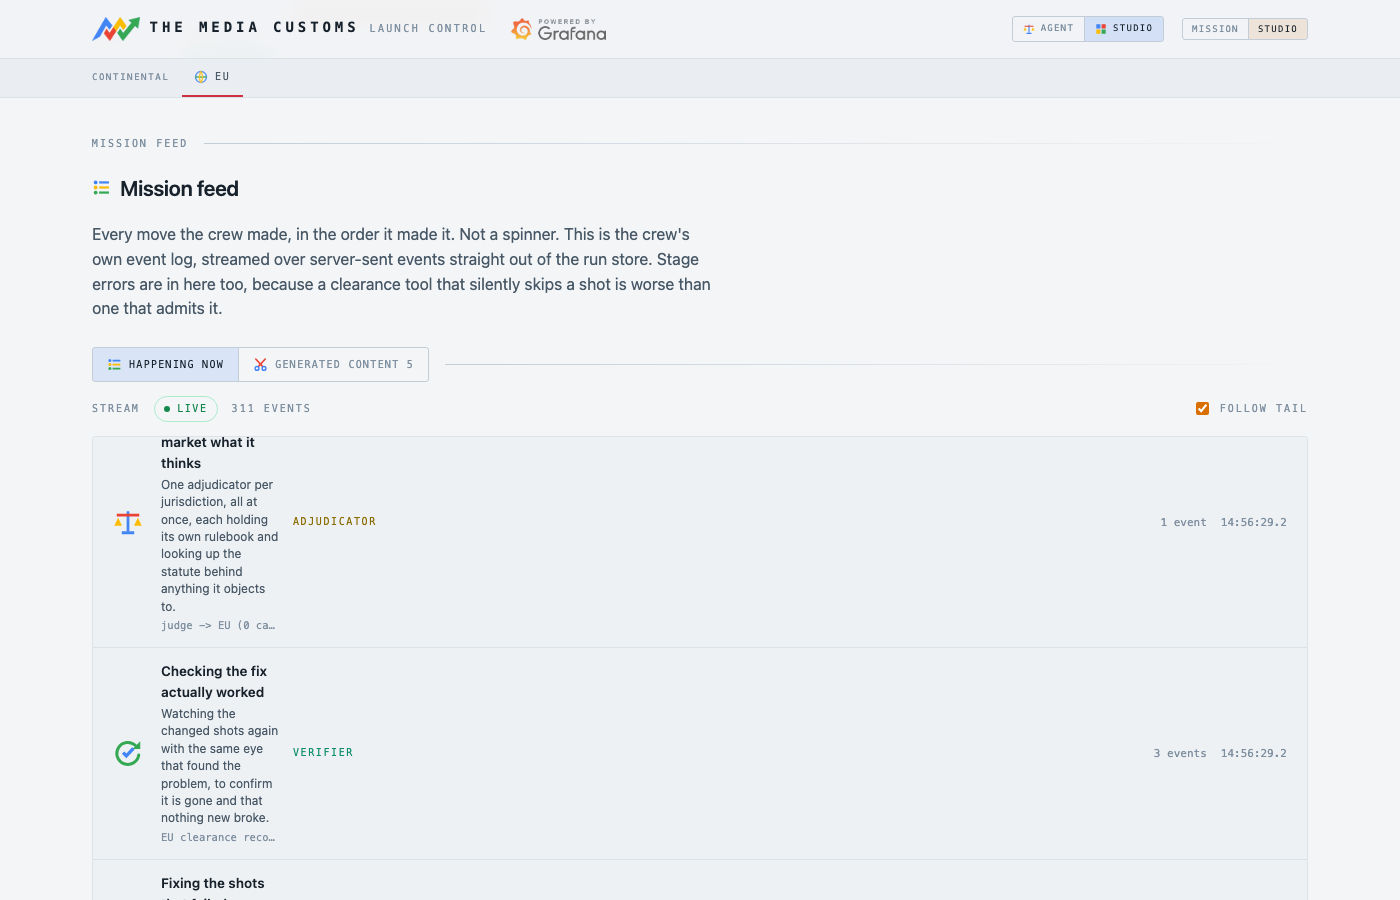
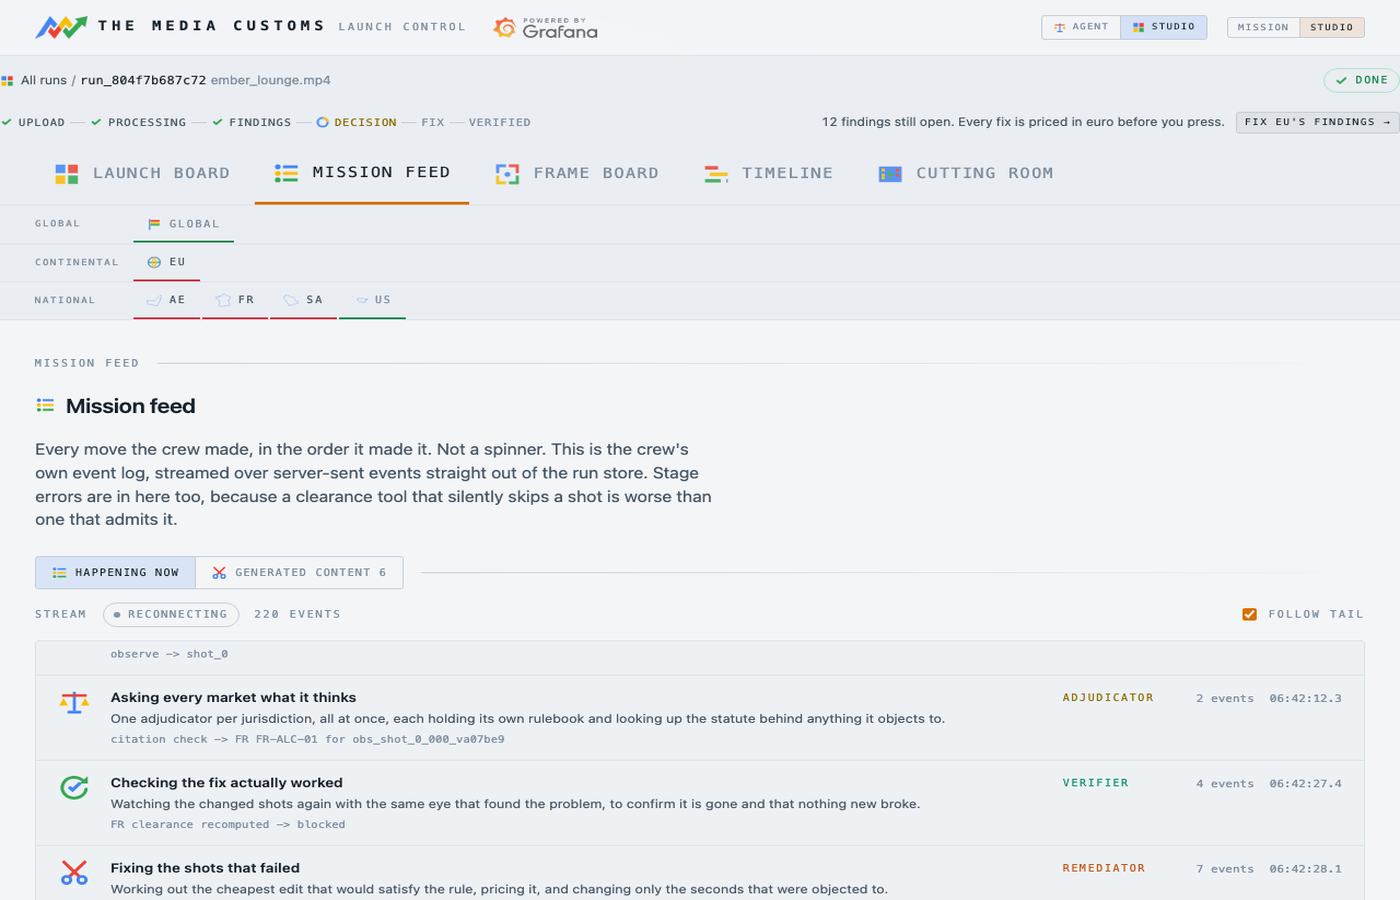
docs: the social card and the mission feed are the current console
Both were the dark theme. The card a pasted link shows was an August
launch board at 1200x833, which every renderer cropped somewhere
unhelpful; it is the light console at Open Graph's own 1200x630 now, on
one of our own Veo spots.

scripts/make_screenshots.py re-shoots either of them, or the board and the
landing page, against any instance. It borrows the tutorial GIF script's
plumbing rather than repeating it.

diff --git a/scripts/make_screenshots.py b/scripts/make_screenshots.py
@@ -1,0 +1,84 @@
+"""Re-shoot the README screenshots and the social card from the live console.
+
+The pictures date faster than anything else in the repo: the console went
+from dark to light, grew screens, and the social card people see when they
+paste the link was still a black launch board from August.
+
+Shares its plumbing with make_tutorial_gifs.py, which already knows how to
+fetch a page with a judge's cookie, point it at the live base href, and
+force open the disclosures a screenshot cannot click.
+
+    python scripts/make_screenshots.py --run run_xxx
+    python scripts/make_screenshots.py --only og
+
+The mission feed needs the same care it always did: its SSE socket never
+closes, so a headless capture of the live URL hangs. Fetching the HTML and
+rendering that copy is what makes it terminate.
+"""
+import argparse
+import shutil
+import sys
+from pathlib import Path
+
+ROOT = Path(__file__).resolve().parents[1]
+sys.path.insert(0, str(ROOT / "scripts"))
+
+from make_tutorial_gifs import OUT, fetch, shot, stage  # noqa: E402
+
+STATIC = ROOT / "src" / "customs" / "static"
+# What the README uses everywhere else, so a new one drops in beside them.
+SHOT_W, SHOT_H = 1400, 900
+# Open Graph's own shape. The old card was 1200x833, which every card
+# renderer cropped somewhere unhelpful.
+OG_W, OG_H = 1200, 630
+
+
+def resize(src: Path, size, dest: Path) -> Path:
+    from PIL import Image
+
+    im = Image.open(src).convert("RGB")
+    if im.size != size:
+        im = im.resize(size, Image.LANCZOS)
+    im.save(dest, optimize=True)
+    return dest
+
+
+def main() -> int:
+    ap = argparse.ArgumentParser()
+    ap.add_argument("--base", default="https://customs-app-akap4ao72a-ew.a.run.app")
+    ap.add_argument("--run", default="run_804f7b687c72")
+    ap.add_argument("--cookie", default="customs-role=judge")
+    ap.add_argument("--only", help="og, mission, board, landing")
+    args = ap.parse_args()
+
+    tmp = ROOT / "scripts" / ".shotcache"
+    tmp.mkdir(parents=True, exist_ok=True)
+    run, base = args.run, args.base
+
+    def page(path, **kw):
+        return stage(fetch(base, path, args.cookie), base, **kw)
+
+    jobs = {
+        # the card a pasted link shows: the verdict, at Open Graph's shape
+        "og": (f"/runs/{run}", STATIC / "og.png", (OG_W, OG_H), 700),
+        "mission": (f"/runs/{run}/mission", OUT / "05-mission-feed.png",
+                    (SHOT_W, SHOT_H), 950),
+        "board": (f"/runs/{run}", OUT / "03-launch-board.png",
+                  (SHOT_W, 880), 930),
+        "landing": ("/", OUT / "01-landing.png", (SHOT_W, 950), 1000),
+    }
+
+    for name, (path, dest, size, height) in jobs.items():
+        if args.only and args.only != name:
+            continue
+        raw = shot(page(path), tmp / f"{name}.png", tmp, height)
+        resize(raw, size, dest)
+        print(f"{name}: {dest.relative_to(ROOT)} {size[0]}x{size[1]} "
+              f"({dest.stat().st_size / 1024:.0f} KB)", flush=True)
+
+    shutil.rmtree(tmp, ignore_errors=True)
+    return 0
+
+
+if __name__ == "__main__":
+    raise SystemExit(main())
